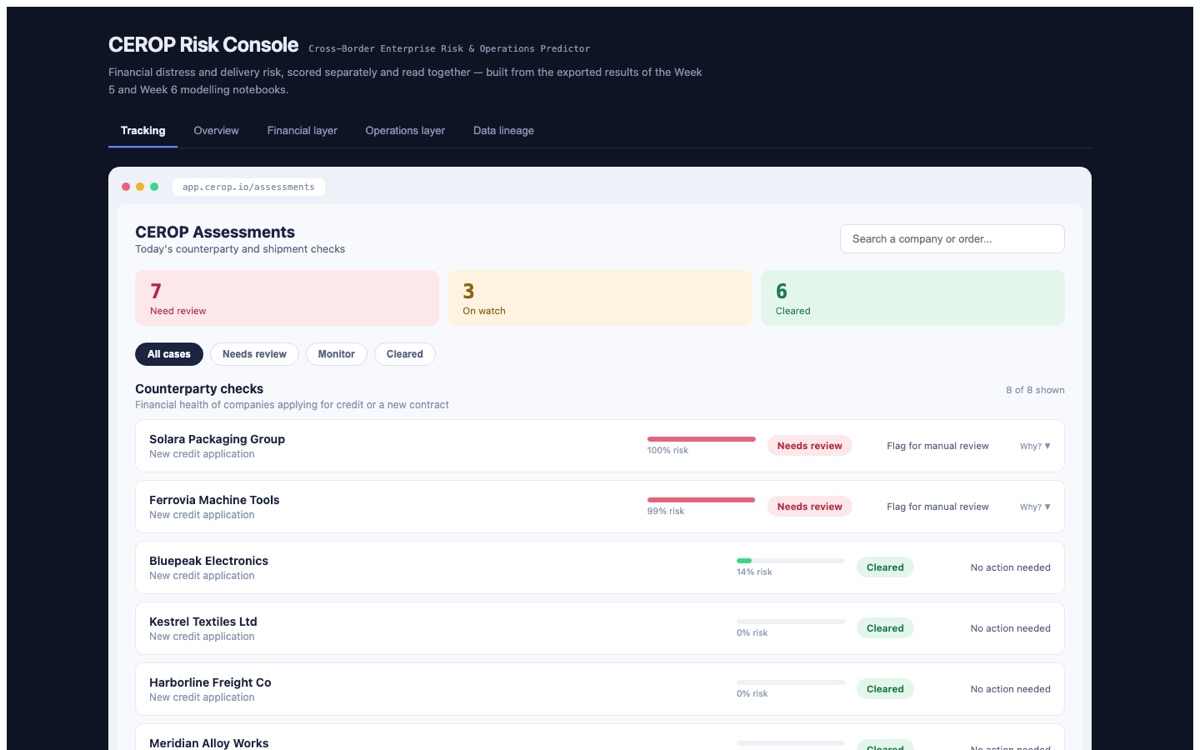
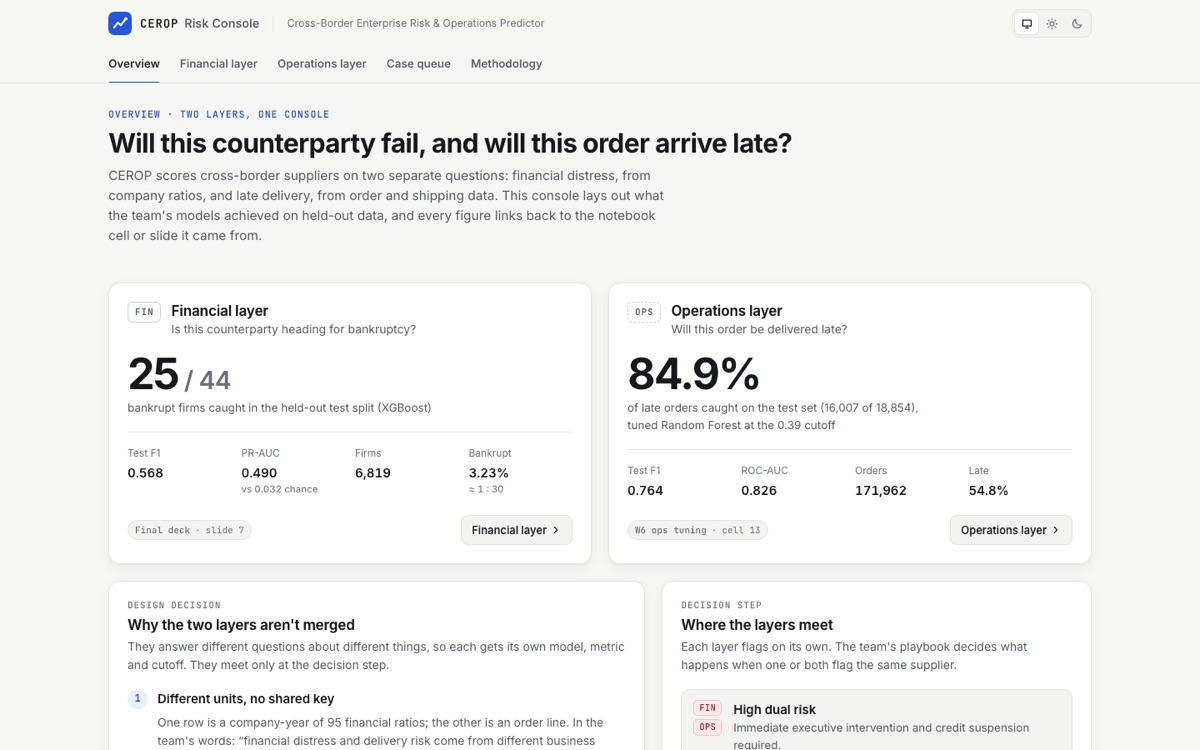
content: update CEROP card with verified results and own console

diff --git a/src/content/profile.ts b/src/content/profile.ts
@@ -95,17 +95,17 @@ export const projects: Project[] = [
     context: 'Team project, shared across modelling, evaluation and the console · AIT 506 Machine Learning, Westcliff University',
     summary:
       'Cross-Border Enterprise Risk & Operations Predictor. Two separate models, one for a ' +
-      'counterparty’s financial distress and one for a shipment’s delivery risk, feed a console that ' +
-      'turns each score into a clear next step: cleared, on watch or needs review.',
+      'counterparty’s financial distress and one for an order’s late-delivery risk, meet in a ' +
+      'decision console. I designed and built the console from the team’s notebook outputs.',
     highlights: [
-      'XGBoost bankruptcy model trained on a 30:1 class imbalance and compared against Logistic Regression at equal recall',
-      'Decision threshold calibrated on validation only; the sealed test set was opened once',
-      'Interactive cutoff explorer and a data-lineage view that traces every figure to its notebook export',
+      'Threshold explorer over the real 81-step validation sweep; the 0.39 cutoff raised late-delivery recall from 0.63 to 0.85 on the sealed test set',
+      'Every figure links to the notebook cell or slide it came from, and derived values are re-checked by tests',
+      'Triage queue, keyboard-accessible tabs, light and dark themes and hand-built SVG charts, down to 390px',
     ],
-    stack: ['XGBoost', 'Logistic Regression', 'Isolation Forest', 'React'],
+    stack: ['Random Forest', 'XGBoost', 'React 19', 'TypeScript', 'SVG charts', 'Vitest'],
     image: {
       src: '/projects/cerop.jpg',
-      alt: 'CEROP Risk Console showing counts of cases that need review and a list of counterparty risk scores',
+      alt: 'CEROP Risk Console overview comparing the financial layer, 25 of 44 bankrupt firms caught, with the operations layer, 84.9% of late orders caught',
     },
     links: [
       { label: 'Live console', href: 'https://divyagopalnadar.github.io/cerop-console/' },
